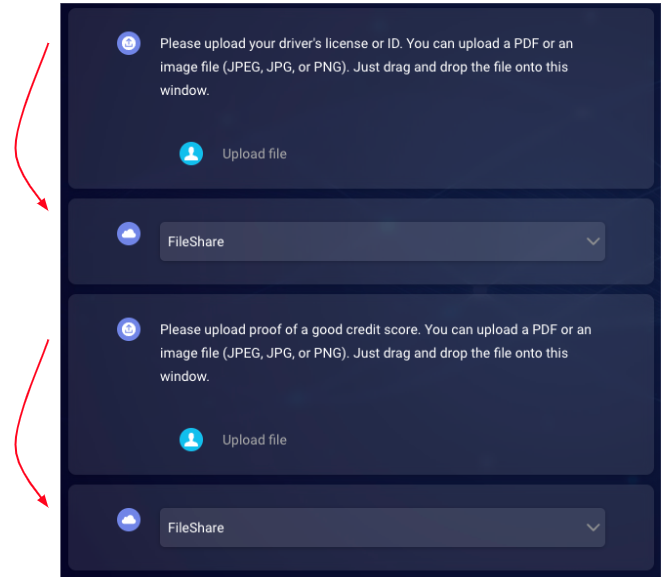
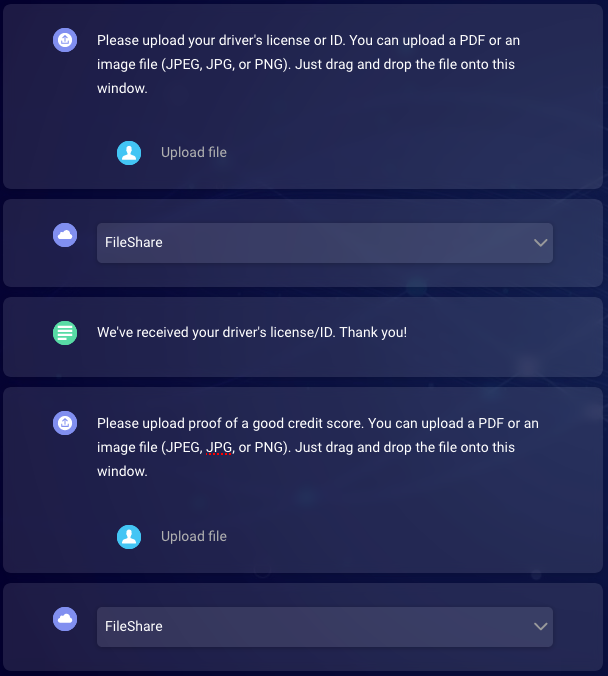
BA-2525 File Upload

diff --git a/pages/documents/ConversationalAI/ConversationBuilder/Interactions/interactions_integrations.md b/pages/documents/ConversationalAI/ConversationBuilder/Interactions/interactions_integrations.md
@@ -64,6 +64,6 @@ In the chat window, the consumer can upload the file by dragging and dropping it
 - The uploaded file can’t be over 5 MB.
 - While LivePerson temporarily stores exchanged files for the duration of the conversation, it does not store them permanently.
 - Exchanged content must obey LivePerson’s Terms & Conditions, and the brand itself is responsible for checking exchanged files for malicious content.
-- If the dialog flow requires that the consumer upload *multiple* files, you'll need to add a File Upload interaction for every file, and each interaction must be followed by an Integration interaction. You can certainly reuse the [File integration](conversation-builder-integrations-file-integrations.html) that gets called.
+- If the dialog flow requires that the consumer upload *multiple* files, you'll need to add a File Upload interaction for every file, and each interaction must be followed by an Integration interaction. You can certainly reuse the [File integration](conversation-builder-integrations-file-integrations.html) that gets called, as we've done below.
 
-    <img style="width:600px" src="img/ConvoBuilder/integrations_fileUpload3.png">
+    <img class="fancyimage" style="width:600px" src="img/ConvoBuilder/integrations_fileUpload3.png">
